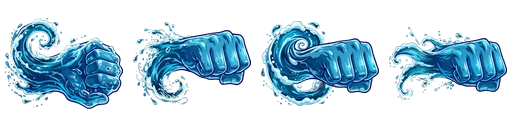
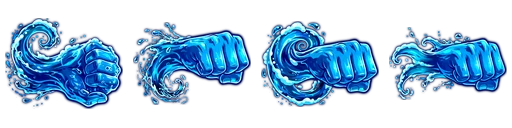
dune: otter K feet pierce the line, L fists bolder and bigger

diff --git a/dune.html b/dune.html
@@ -149,7 +149,7 @@ const DRAGON_SKILLS = [ /* owner: spear and fire, nothing dragon-shaped: the her
   { id: 'ult', n: 'เพลิงในสายเลือด', key: 'R', ic: 106, mp: 46, cd: 28, mul: 7, anim: 'hero_s_ult', d: 'พุ่งแทงรัว 9 ฮิต ทะลุแนวศัตรู ฮิตสุดท้ายแรงที่สุด', lv: 7 }
 ];
 const OTTER_SKILLS = [ /* owner: close first, middle second, ONE long-range skill; water orbs round the body are the resource; flowing */
-  { id: 'o_step', n: 'ถีบคลื่น', key: 'K', ic: 200, mp: 8, cd: 3, mul: 1.8, gain: 1, anim: 'otter_skill_spin', d: 'ระยะกลาง: ถีบเท้าน้ำพุ่งทะลุแนว 3 ฮิต ได้ลูกแก้ว 1' },
+  { id: 'o_step', n: 'ถีบคลื่น', key: 'K', ic: 200, mp: 8, cd: 3, mul: 1.8, gain: 1, anim: 'otter_skill_spin', d: 'ระยะกลาง: ถีบเท้าน้ำพุ่งทะลุศัตรูทั้งแถว 3 ฮิต ได้ลูกแก้ว 1' },
   { id: 'o_flurry', n: 'หมัดรัวกระแสน้ำ', key: 'L', ic: 201, mp: 11, cd: 5, mul: 2.6, gain: 2, anim: 'otter_skill_flurry', d: 'ประชิด: ปล่อยหมัดน้ำรัว 8 ฮิต เดินหน้าและเลี้ยวได้ ได้ลูกแก้ว 2' },
   { id: 'o_upper', n: 'หมัดเสยคลื่น', key: 'U', ic: 202, mp: 12, cd: 5, mul: 2.4, gain: 1, anim: 'otter_skill_upper', d: 'ประชิด: เสย 3 ฮิต งัดศัตรูลอยและพาตัวขึ้นแท่น ได้ลูกแก้ว 1', lv: 2 },
   { id: 'o_drop', n: 'ทุบวังน้ำ', key: 'I', ic: 203, mp: 14, cd: 6, mul: 3, need: 2, anim: 'otter_skill_drop', d: 'ประชิด: โดดทุบพื้น ดูดศัตรูเข้ามา 4 ฮิต ใช้กลางอากาศได้ ใช้ลูกแก้ว 2', lv: 3 },
@@ -171,7 +171,7 @@ const DRAGON_COMBO = [ /* hit feel: stop = freeze on contact (s), shake, big = f
 const COMBO = OTTER ? OTTER_COMBO : DRAGON_COMBO;
 
 /* ---------- assets ---------- */
-const BUILD = 18;   /* raise when sprites.json / world.json change, so a browser never mixes a new page with an old list */
+const BUILD = 19;   /* raise when sprites.json / world.json change, so a browser never mixes a new page with an old list */
 const SP = {}, ENV = {}, IMG = {}; let WORLD = {};
 const load = src => new Promise(ok => { const i = new Image(); i.onload = () => Promise.race([i.decode ? i.decode().catch(() => { }) : Promise.resolve(), new Promise(r => setTimeout(r, 2500))]).then(() => ok(i));   /* a browser may never finish decode() in a background window: the game must still start */ i.onerror = () => { console.warn('missing', src); ok(null); }; i.src = src; });
 async function loadAll() {
@@ -312,13 +312,13 @@ function stepOtter(dt) {
     else if (U.st === 'hit') { const q = U.list[U.i]; P.a = 'otter_skill_flurry'; P.f = (P.f + dt * 44) % 16; U.t -= dt; if (U.t <= 0) { U.t = .055; if (q && q.st !== 'dead') { hurtMob(q, a * .16, 14, P.dir, SOFT); swing({ fx: { k: 'thrust', ox: 10, oy: -36 + [0, -8, 7][U.n], len: 74, w: 5, T: .1 } }); sfx('swing'); } if (++U.n >= 3) { U.i++; U.st = 'go'; U.t = 0; U.x0 = P.x; } } }
     else { P.a = 'hero_attack3'; P.t += dt * 30; P.f = Math.min(15, P.t); if (!U.done && P.t >= 9) { U.done = true; P.hitDone = true; const b = fistBox(170, 60); fx('fx_w_crown', P.x + P.dir * 70, P.y - 40, .9, P.dir, 30); ring(P.x + P.dir * 70, P.y, 170, .4); G.shake = 18; G.flash = .36; sfx('boom'); hitArea(b[0], b[1], P.y - 150, P.y + 30, a * .6, 420, P.dir, { stop: .12, shake: 12, big: 1 }); } if (P.t >= 15) { P.a = 'hero_idle'; setAnim('idle'); } } return; }
 }
-function waterFists(d, n, big) { for (let j = 0; j < n; j++) G.wf.push({ x: P.x + d * (20 + rand(0, 8)), y: P.y - 38 + rand(-17, 14), d, L: rand(72, 104) + (big ? 16 : 0), t: 0, T: big ? .2 : .15, wait: j * .022, z: big ? rand(54, 64) : rand(32, 44), i: Math.floor(Math.random() * 4) }); }
+function waterFists(d, n, big) { for (let j = 0; j < n; j++) G.wf.push({ x: P.x + d * (20 + rand(0, 8)), y: P.y - 38 + rand(-17, 14), d, L: rand(72, 104) + (big ? 16 : 0), t: 0, T: big ? .21 : .16, wait: j * .022, z: big ? rand(66, 76) : rand(40, 52), i: Math.floor(Math.random() * 4) }); }
 function stepFists(dt) { for (let i = G.wf.length - 1; i >= 0; i--) { const q = G.wf[i]; if (q.wait > 0) { q.wait -= dt; continue; } q.t += dt; if (q.t >= q.T) { drip(q.x + q.d * q.L, q.y, 2, 120); G.wf.splice(i, 1); } } }
-function launchFoot(S, i, dmg, d, end) { const w = { x: P.x + d * 30, y: P.y - 27 + [0, -6, 5][i], v: d * 980, left: 250, hit: new Set(), dmg, d, end, S, z: end ? 78 : 58, im: Math.floor(Math.random() * 4), age: 0 }; G.wk.push(w); sfx('swing'); }
-function stepFeet(dt) { for (let i = G.wk.length - 1; i >= 0; i--) { const w = G.wk[i], q = w.v * dt; w.x += q; w.left -= Math.abs(q); w.age += dt; if (Math.random() < dt * 60) drip(w.x - w.d * 18, w.y, 1, 70); for (const m of G.mobs) { if (m.st === 'dead' || w.hit.has(m) || Math.abs(m.x - w.x) > m.T.r + 22 || w.y < m.y - m.T.h - 12 || w.y > m.y + 22) continue; w.hit.add(m); hurtMob(m, w.dmg, w.end ? 190 : 24, w.d, w.end ? { stop: .05, shake: 5, big: 1, tip: 1 } : TIPSOFT); connect(w.S, 1); drip(m.x, w.y, w.end ? 10 : 5, 210); } if (w.left <= 0 || w.x < 20 || w.x > MAPW - 20) { drip(w.x, w.y, 7, 170); G.wk.splice(i, 1); } } }
-function drawFeet() { const m = SP.otter_wkick; if (!m || !m.img) return; for (const w of G.wk) { const fade = clamp(w.left / 46, 0, 1), k = .7 + .3 * clamp(w.age / .07, 0, 1); ctx.save(); ctx.globalAlpha = fade; ctx.translate(WX(w.x), WY(w.y)); ctx.scale(w.d * k, k); ctx.drawImage(m.img, w.im * m.w, 0, m.w, m.h, -w.z * .86, -w.z / 2, w.z, w.z); ctx.restore(); } }
+function launchFoot(S, i, dmg, d, end) { const w = { x: P.x + d * 30, y: P.y - 27 + [0, -6, 5][i], v: d * 1080, left: 320, hit: new Set(), dmg, d, end, S, z: end ? 92 : 68, im: Math.floor(Math.random() * 4), age: 0 }; G.wk.push(w); sfx('swing'); }
+function stepFeet(dt) { for (let i = G.wk.length - 1; i >= 0; i--) { const w = G.wk[i], q = w.v * dt; w.x += q; w.left -= Math.abs(q); w.age += dt; if (Math.random() < dt * 60) drip(w.x - w.d * 18, w.y, 1, 70); for (const m of G.mobs) { if (m.st === 'dead' || w.hit.has(m) || Math.abs(m.x - w.x) > m.T.r + 22 || w.y < m.y - m.T.h - 12 || w.y > m.y + 22) continue; w.hit.add(m); hurtMob(m, w.dmg, w.end ? 110 : 18, w.d, w.end ? { stop: .03, shake: 5, big: 1, tip: 1 } : TIPSOFT); connect(w.S, 1); drip(m.x + w.d * (m.T.r + 8), w.y, w.end ? 14 : 8, 250); }   /* the splash comes out on the far side: the foot went through */ if (w.left <= 0 || w.x < 20 || w.x > MAPW - 20) { drip(w.x, w.y, 7, 170); G.wk.splice(i, 1); } } }
+function drawFeet() { const m = SP.otter_wkick; if (!m || !m.img) return; for (const w of G.wk) { const fade = clamp(w.left / 60, 0, 1), k = .7 + .3 * clamp(w.age / .07, 0, 1); ctx.save(); ctx.globalAlpha = fade; ctx.translate(WX(w.x), WY(w.y)); ctx.scale(w.d * k, k); ctx.drawImage(m.img, w.im * m.w, 0, m.w, m.h, -w.z * .86, -w.z / 2, w.z, w.z); ctx.restore(); } }
 function waterKick(d, big) { G.wf.push({ k: 'otter_wkick', x: P.x + d * 24, y: P.y - 27 + rand(-5, 5), d, L: big ? 74 : rand(50, 62), t: 0, T: big ? .24 : .17, wait: 0, z: big ? 86 : rand(58, 66), i: Math.floor(Math.random() * 4) }); }
-function drawFists() { for (const q of G.wf) { const m = SP[q.k || 'otter_wfist']; if (!m || !m.img || q.wait > 0) continue; const p = q.t / q.T, e = out3(p / .7), k = .62 + .38 * Math.min(1, p / .25); ctx.save(); ctx.globalAlpha = p < .12 ? p / .12 : 1 - sm((p - .62) / .38); ctx.translate(WX(q.x + q.d * q.L * e), WY(q.y)); ctx.scale(q.d * k, k); ctx.drawImage(m.img, q.i * m.w, 0, m.w, m.h, -q.z * .86, -q.z / 2, q.z, q.z); ctx.restore(); } }
+function drawFists() { for (const q of G.wf) { const m = SP[q.k || 'otter_wfist']; if (!m || !m.img || q.wait > 0) continue; const p = q.t / q.T, e = out3(p / .7), k = .62 + .38 * Math.min(1, p / .25); ctx.save(); ctx.globalAlpha = p < .1 ? p / .1 : 1 - sm((p - .74) / .26); ctx.translate(WX(q.x + q.d * q.L * e), WY(q.y)); ctx.scale(q.d * k, k); ctx.drawImage(m.img, q.i * m.w, 0, m.w, m.h, -q.z * .86, -q.z / 2, q.z, q.z); ctx.restore(); } }
 function waterSwirl(x, y, z, al) { const m = SP.fx_w_spin; if (!m || !m.img) return; const i = 3 + Math.floor(G.t * 22) % 3; ctx.save(); ctx.globalAlpha = al; ctx.translate(WX(x), WY(y)); ctx.rotate(G.t * 15 * P.dir); ctx.drawImage(m.img, (i % m.cols) * m.w, Math.floor(i / m.cols) * m.h, m.w, m.h, -z / 2, -z / 2, z, z); ctx.restore(); }
 function fistAt(C) { const i = Math.min(15, Math.floor(P.f)), u = P.f - i, A = C.fist[i], B = C.fist[Math.min(15, i + 1)]; return { x: P.x + P.dir * lerp(A[0], B[0], u), y: P.y - lerp(A[1], B[1], u) }; }
 function drip(x, y, n, sp) { for (let i = 0; i < n && G.wd.length < 70; i++) { const a = rand(0, 6.283), v = rand(sp * .35, sp); G.wd.push({ x, y, vx: Math.cos(a) * v + P.dir * sp * .25, vy: Math.sin(a) * v - 50, t: rand(.2, .42), r: rand(1, 2.5) }); } }

diff --git a/tools/art/otter_water_fist.py b/tools/art/otter_water_fist.py
@@ -7,7 +7,7 @@ Reads art/incoming/otter_fist/water_fists_meta_v1.webp (kept as it is), turns th
 puts each fist with its knuckles at the same place in a 128 px cell, writes art/dune/otter/water_fist.webp and adds otter_wfist to sprites.json.
 """
 import json, sys
-import numpy as np
+import numpy as np, cv2
 from PIL import Image
 
 KICK = len(sys.argv) > 1 and sys.argv[1] == 'kick'; NAME = 'kicks' if KICK else 'fists'; KEY = 'otter_wkick' if KICK else 'otter_wfist'
@@ -15,7 +15,10 @@ SRC, OUT, CELL = f'art/incoming/otter_fist/water_{NAME}_meta_v1.webp', f"art/dun
 a = np.array(Image.open(SRC).convert('RGB')).astype(np.float32) / 255; H, W = a.shape[:2]; S = Image.new('RGBA', (CELL * 4, CELL), (0, 0, 0, 0))
 for n in range(4):
     x0, y0 = (n % 2) * W // 2, (n // 2) * H // 2; q = a[y0:y0 + H // 2, x0:x0 + W // 2]; v = q.max(2); al = np.clip((v - .05) / .16, 0, 1); e = np.minimum.reduce(np.mgrid[0:q.shape[0], 0:q.shape[1]].tolist() + [q.shape[0] - 1 - np.mgrid[0:q.shape[0], 0:q.shape[1]][0], q.shape[1] - 1 - np.mgrid[0:q.shape[0], 0:q.shape[1]][1]]); al *= np.clip(e / 12, 0, 1)
-    rgb = np.clip(q / np.maximum(al[..., None], .05), 0, 1); im = Image.fromarray((np.dstack([rgb, al]) * 255).astype(np.uint8), 'RGBA'); im = im.crop(Image.fromarray(((al > .3) * 255).astype(np.uint8)).getbbox()); k = 118 / max(im.size); im = im.resize((round(im.width * k), round(im.height * k)), Image.LANCZOS)
+    rgb = np.clip(q / np.maximum(al[..., None], .05), 0, 1)
+    if not KICK:   # owner: the fists of skill L must read clearly on the bright sand: deeper colour, firmer shape, a dark blue rim
+        g = rgb.mean(2, keepdims=True); rgb = np.clip(g + (rgb - g) * 1.55, 0, 1); rgb = np.clip((rgb - .5) * 1.22 + .45, 0, 1); al = np.clip(al * 1.4, 0, 1); rim = np.clip(cv2.GaussianBlur(al, (0, 0), 7) * 2.1 - al, 0, 1) * .85; out = al + rim * (1 - al); rgb = (rgb * al[..., None] + np.array([6, 26, 92], np.float32) / 255 * (rim * (1 - al))[..., None]) / np.maximum(out[..., None], 1e-3); al = out
+    im = Image.fromarray((np.dstack([rgb, al]) * 255).astype(np.uint8), 'RGBA'); im = im.crop(Image.fromarray(((al > .3) * 255).astype(np.uint8)).getbbox()); k = 118 / max(im.size); im = im.resize((round(im.width * k), round(im.height * k)), Image.LANCZOS)
     S.alpha_composite(im, (n * CELL + CELL - 5 - im.width, (CELL - im.height) // 2))
 S.save(OUT, 'WEBP', quality=90, alpha_quality=95, method=6)
 sp = json.load(open('art/dune/sprites.json')); sp[KEY] = {'src': OUT, 'n': 4, 'w': CELL, 'h': CELL, 'cols': 4}; json.dump(sp, open('art/dune/sprites.json', 'w'), separators=(',', ':')); print(OUT, S.size)

diff --git a/docs/action-game.md b/docs/action-game.md
@@ -2292,3 +2292,6 @@ Owner: "ทำ vfx เป็นท่าเตะ": no new character sheet. A le
 
 ### DUNE: otter K = push kick that shoots water feet (2026-11-22, `?hero=otter&test=1&v=20`)
 Owner: "ท่าถีบ ไม่ได้กระโดด", "แบบ K มันพุ่งไป ให้เป็นเท้าก็ได้". K (ถีบคลื่น) no longer jumps or flies: the otter takes one small step, push-kicks on the spot (kick frames of `skill_spin`), and 3 feet of water (`otter_wkick`, `launchFoot`, `stepFeet`) shoot forward about 250, piercing the line; each foot hits each monster once, the last is bigger and pushes. Checked at 1280x720 and 740x360, both facing directions, no console errors. Not tried on a real phone.
+
+### DUNE: otter K pierces, L fists stronger (2026-11-22, `?hero=otter&test=1&v=21`)
+Owner: "k ขอแบบทะลุ, l ขอสีมันชัดกว่านี้ หมัดใหญ่กว่านี้นิดหน่อย". K: the water feet are bigger and faster, fly about 320, barely freeze or push on contact so they visibly pass through the whole line, and the splash comes out on the far side of each monster. L: `otter_water_fist.py` deepens the colour, firms the shape and adds a dark blue rim (raw picture unchanged); fists drawn about 20% bigger and stay solid longer. Checked at 1280x720 and 740x360, no console errors. Not tried on a real phone.
